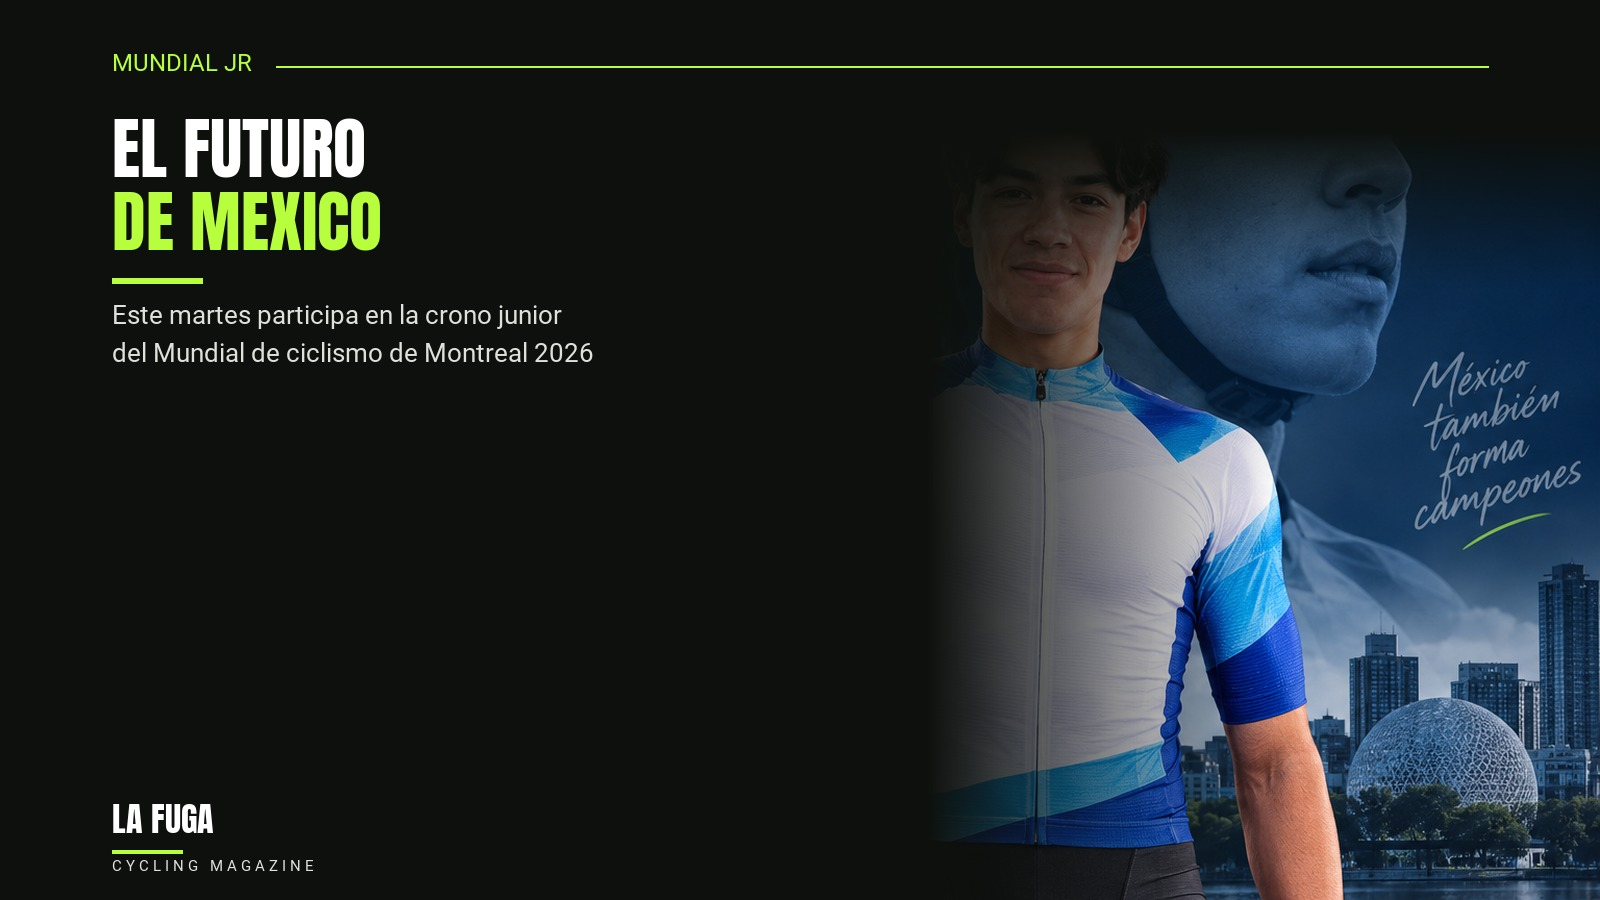
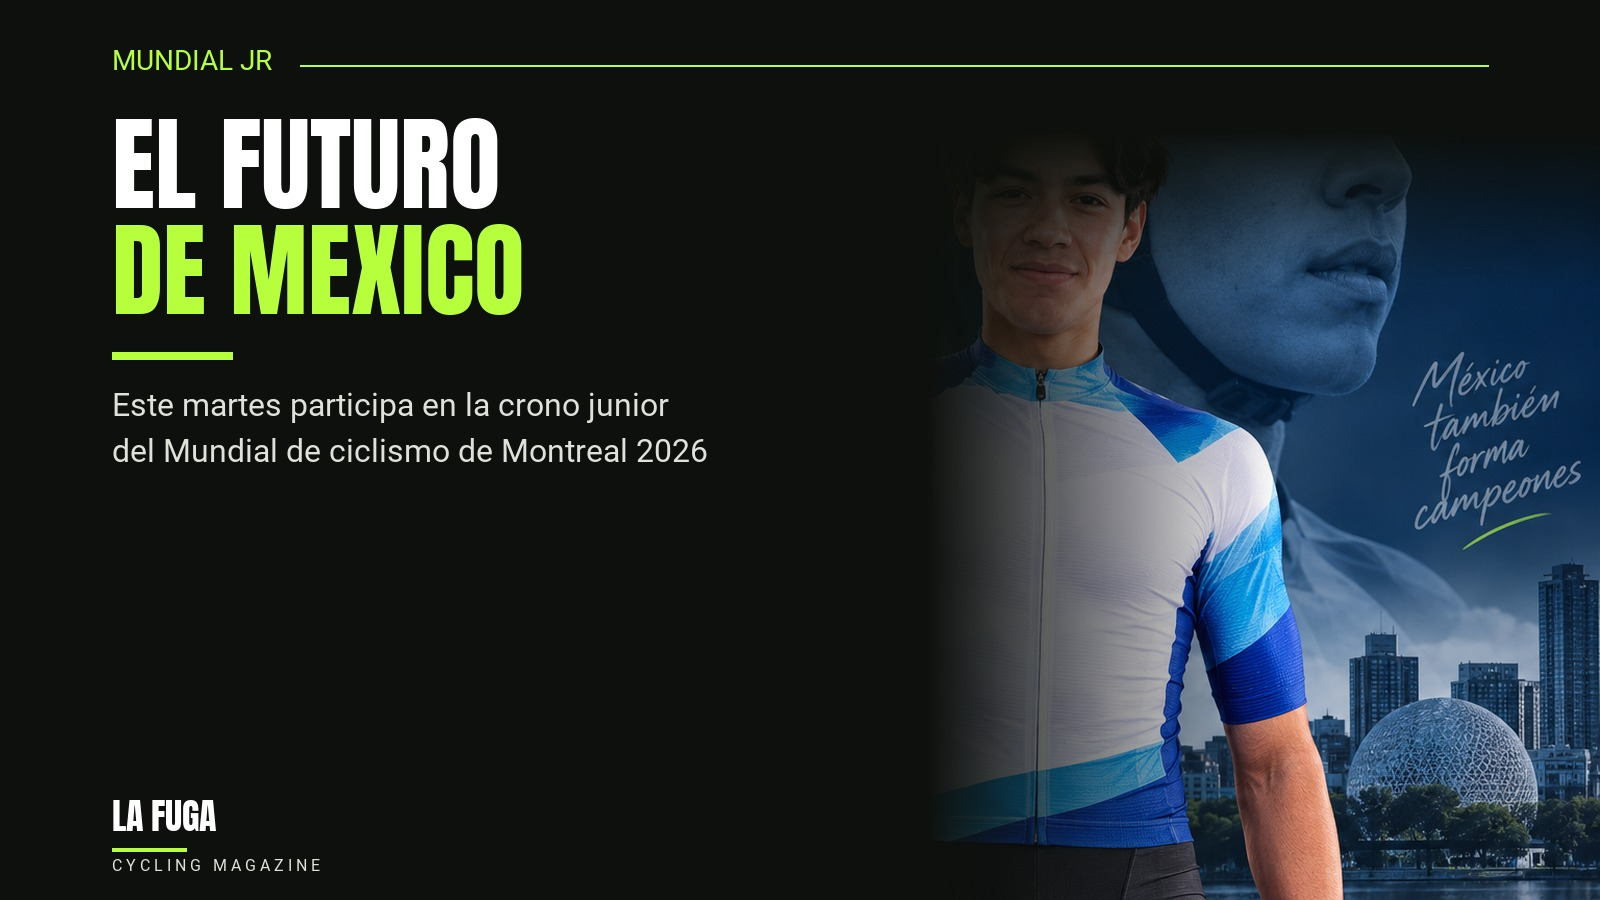
Aumentar tamaño y presencia del texto en las carátulas, nuevo estándar
A petición del usuario: texto de título más grande (68px -> 104px),
subtítulo y etiqueta también más grandes, con mayor enfoque sobre la
foto. Además el degradado pasa a 100% opaco (antes 235/255) para
evitar "ghosting" de texto ya horneado en la foto base. Aplicado a la
carátula de Omar Andrade y guardado como nuevo default en
gen_cover_template.py para todas las carátulas futuras.

diff --git a/scripts/gen_cover_template.py b/scripts/gen_cover_template.py
@@ -4,9 +4,13 @@ Plantilla estándar de carátulas de La Fuga (1600x900).
 Guarda los parámetros de diseño acordados con el usuario el 21 de
 septiembre de 2026: tamaño/posición del bloque de texto respecto a la
 foto, tamaño de fuente, tipografía, y el nuevo lockup "LA FUGA /
-CYCLING MAGAZINE" en la esquina inferior izquierda. Este archivo es la
-referencia — cada script de carátula por artículo debe copiar esta
-función en vez de reinventar el layout.
+CYCLING MAGAZINE" en la esquina inferior izquierda. Ajustado el mismo
+día (2026-09-21, cover de Omar Andrade) a tamaños de texto más
+grandes/con más presencia sobre la foto, y a degradado 100% opaco en
+la zona sólida (antes 235/255, causaba "ghosting" de texto ya horneado
+en fotos base). Este archivo es la referencia — cada script de
+carátula por artículo debe copiar esta función en vez de reinventar el
+layout.
 
 Uso:
     from gen_cover_template import render_cover
@@ -55,9 +59,9 @@ def render_cover(
     title_lines,
     subtitle_lines,
     crop_top=100,
-    anton_size=68,
-    gradient_solid_end_frac=0.42,
-    gradient_fade_end_frac=0.66,
+    anton_size=104,
+    gradient_solid_end_frac=0.58,
+    gradient_fade_end_frac=0.80,
 ):
     src = Image.open(src_path).convert("RGB")
     sw, sh = src.size
@@ -65,16 +69,19 @@ def render_cover(
     crop = src.crop((0, crop_top, sw, crop_top + crop_h))
     canvas = crop.resize((W, H), Image.LANCZOS).convert("RGBA")
 
-    # degradado oscuro izquierda -> foto visible a la derecha
+    # degradado oscuro izquierda -> foto visible a la derecha. 100%
+    # opaco en la zona sólida: a 235/255 el texto ya horneado en la
+    # foto base (p.ej. una carátula previa reusada como fuente) se
+    # alcanza a transparentar ("ghosting") por debajo del texto nuevo.
     gradient = Image.new("L", (W, 1), color=0)
     solid_end = int(W * gradient_solid_end_frac)
     fade_end = int(W * gradient_fade_end_frac)
     for x in range(W):
         if x < solid_end:
-            a = 235
+            a = 255
         elif x < fade_end:
             t = (x - solid_end) / (fade_end - solid_end)
-            a = int(235 * (1 - t))
+            a = int(255 * (1 - t))
         else:
             a = 0
         gradient.putpixel((x, 0), a)
@@ -83,10 +90,11 @@ def render_cover(
     overlay.putalpha(gradient)
     canvas = Image.alpha_composite(canvas, overlay)
 
-    # degradado superior sutil, para que la etiqueta de categoría respire
+    # degradado superior, igualmente opaco, para que la etiqueta de
+    # categoría respire y cubra cualquier texto horneado arriba
     top_grad = Image.new("L", (1, H), color=0)
     for y in range(H):
-        a = 150 if y < 110 else max(0, int(150 * (1 - (y - 110) / 180)))
+        a = 255 if y < 130 else max(0, int(255 * (1 - (y - 130) / 160)))
         top_grad.putpixel((0, y), a)
     top_grad = top_grad.resize((W, H))
     top_overlay = Image.new("RGBA", (W, H), BG + (255,))
@@ -97,38 +105,38 @@ def render_cover(
     indent = int(W * 0.07)
 
     # ---- etiqueta de categoría + línea divisora a todo lo ancho ----
-    label_font = ImageFont.truetype(FONT_INTER, 24)
-    _draw_text_isolated(canvas, (indent, 54), label, label_font, LIME)
-    label_w = label_font.getbbox(label)[2] + 24
-    line_y = 54 + 12
+    label_font = ImageFont.truetype(FONT_INTER, 28)
+    _draw_text_isolated(canvas, (indent, 50), label, label_font, LIME)
+    label_w = label_font.getbbox(label)[2] + 28
+    line_y = 50 + 15
     draw.line([(indent + label_w, line_y), (W - indent, line_y)], fill=(*LIME, 140), width=2)
 
-    # ---- título ----
+    # ---- título (más grande, más presencia sobre la foto) ----
     title_font = ImageFont.truetype(FONT_ANTON, anton_size)
     y = 118
-    line_h = int(anton_size * 1.08)
+    line_h = int(anton_size * 1.02)
     for text, color_name in title_lines:
         _draw_text_isolated(canvas, (indent, y), text, title_font, COLORS[color_name])
         y += line_h
 
-    y += 14
-    draw.rectangle([indent, y, indent + 90, y + 5], fill=LIME)
-    y += 26
+    y += 22
+    draw.rectangle([indent, y, indent + 120, y + 7], fill=LIME)
+    y += 40
 
     # ---- subtítulo ----
-    sub_font = ImageFont.truetype(FONT_INTER, 26)
+    sub_font = ImageFont.truetype(FONT_INTER, 32)
     for line in subtitle_lines:
         _draw_text_isolated(canvas, (indent, y), line, sub_font, SUBGRAY)
-        y += 38
+        y += 46
 
     # ---- lockup de marca, esquina inferior izquierda ----
-    brand_font = ImageFont.truetype(FONT_ANTON, 34)
-    brand_y = H - 96
+    brand_font = ImageFont.truetype(FONT_ANTON, 36)
+    brand_y = H - 100
     _draw_text_isolated(canvas, (indent, brand_y), "LA FUGA", brand_font, WHITE)
-    rule_y = brand_y + 46
-    draw.rectangle([indent, rule_y, indent + 70, rule_y + 3], fill=LIME)
-    sub_brand_font = ImageFont.truetype(FONT_INTER, 15)
-    _draw_text_isolated(canvas, (indent, rule_y + 10), "C Y C L I N G   M A G A Z I N E", sub_brand_font, SUBGRAY)
+    rule_y = brand_y + 48
+    draw.rectangle([indent, rule_y, indent + 74, rule_y + 3], fill=LIME)
+    sub_brand_font = ImageFont.truetype(FONT_INTER, 16)
+    _draw_text_isolated(canvas, (indent, rule_y + 11), "C Y C L I N G   M A G A Z I N E", sub_brand_font, SUBGRAY)
 
     final = canvas.convert("RGB")
     final.save(out_path, quality=92)
